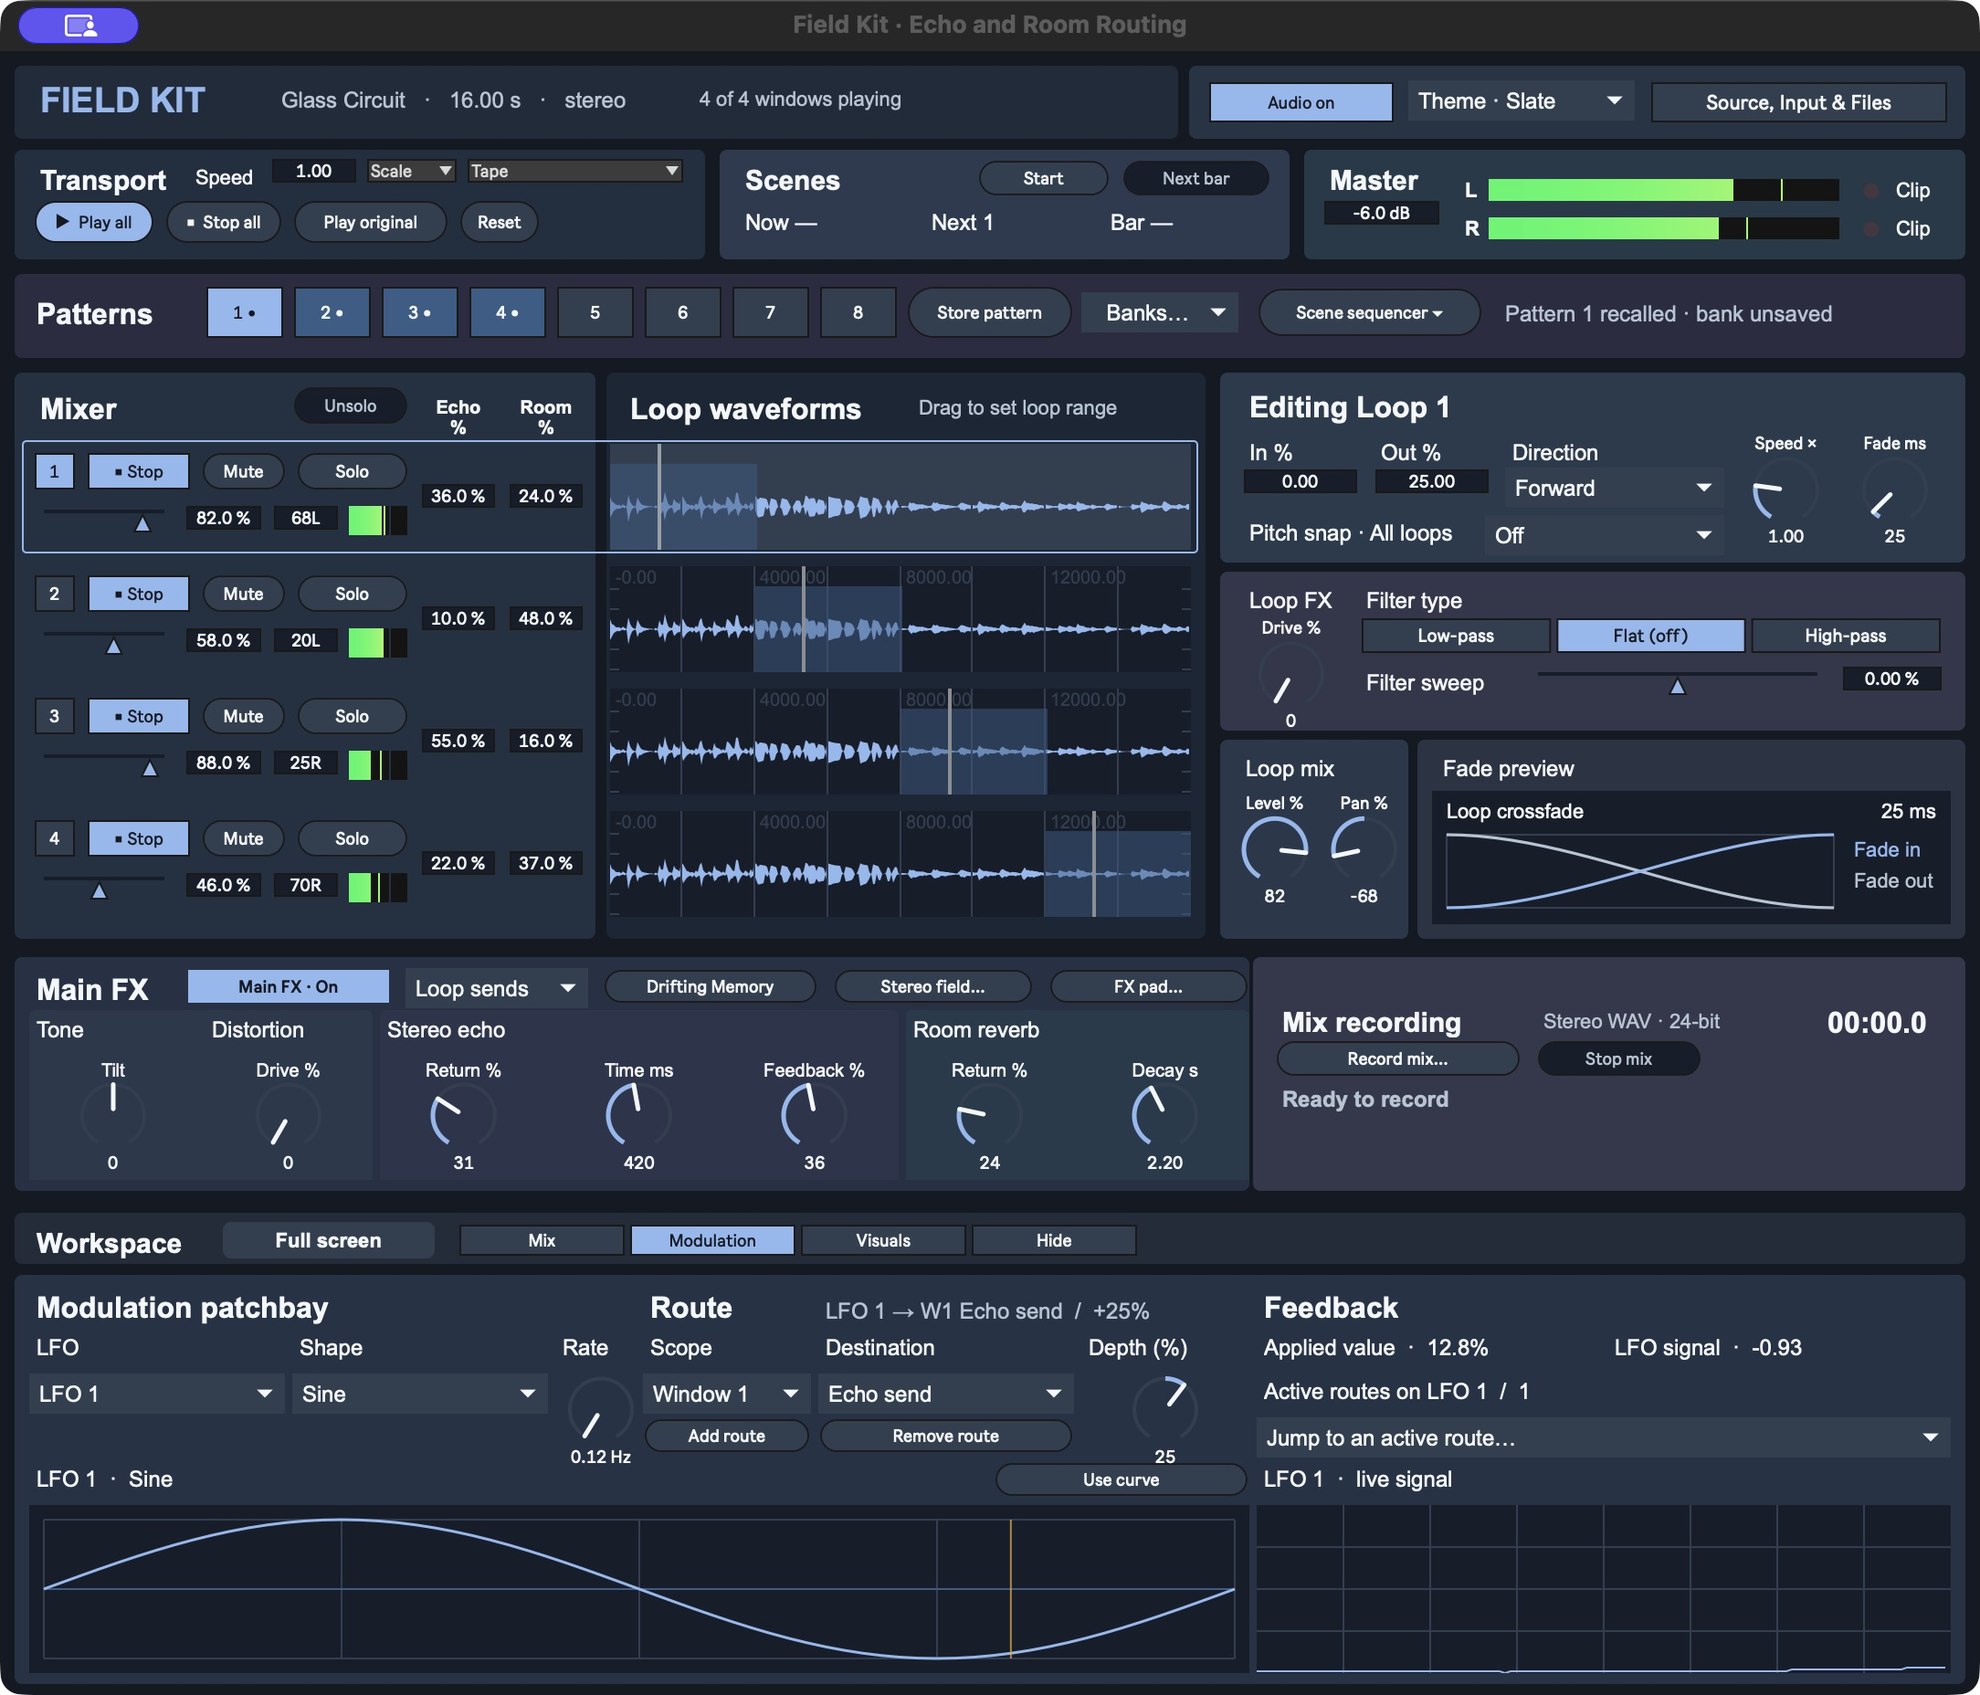
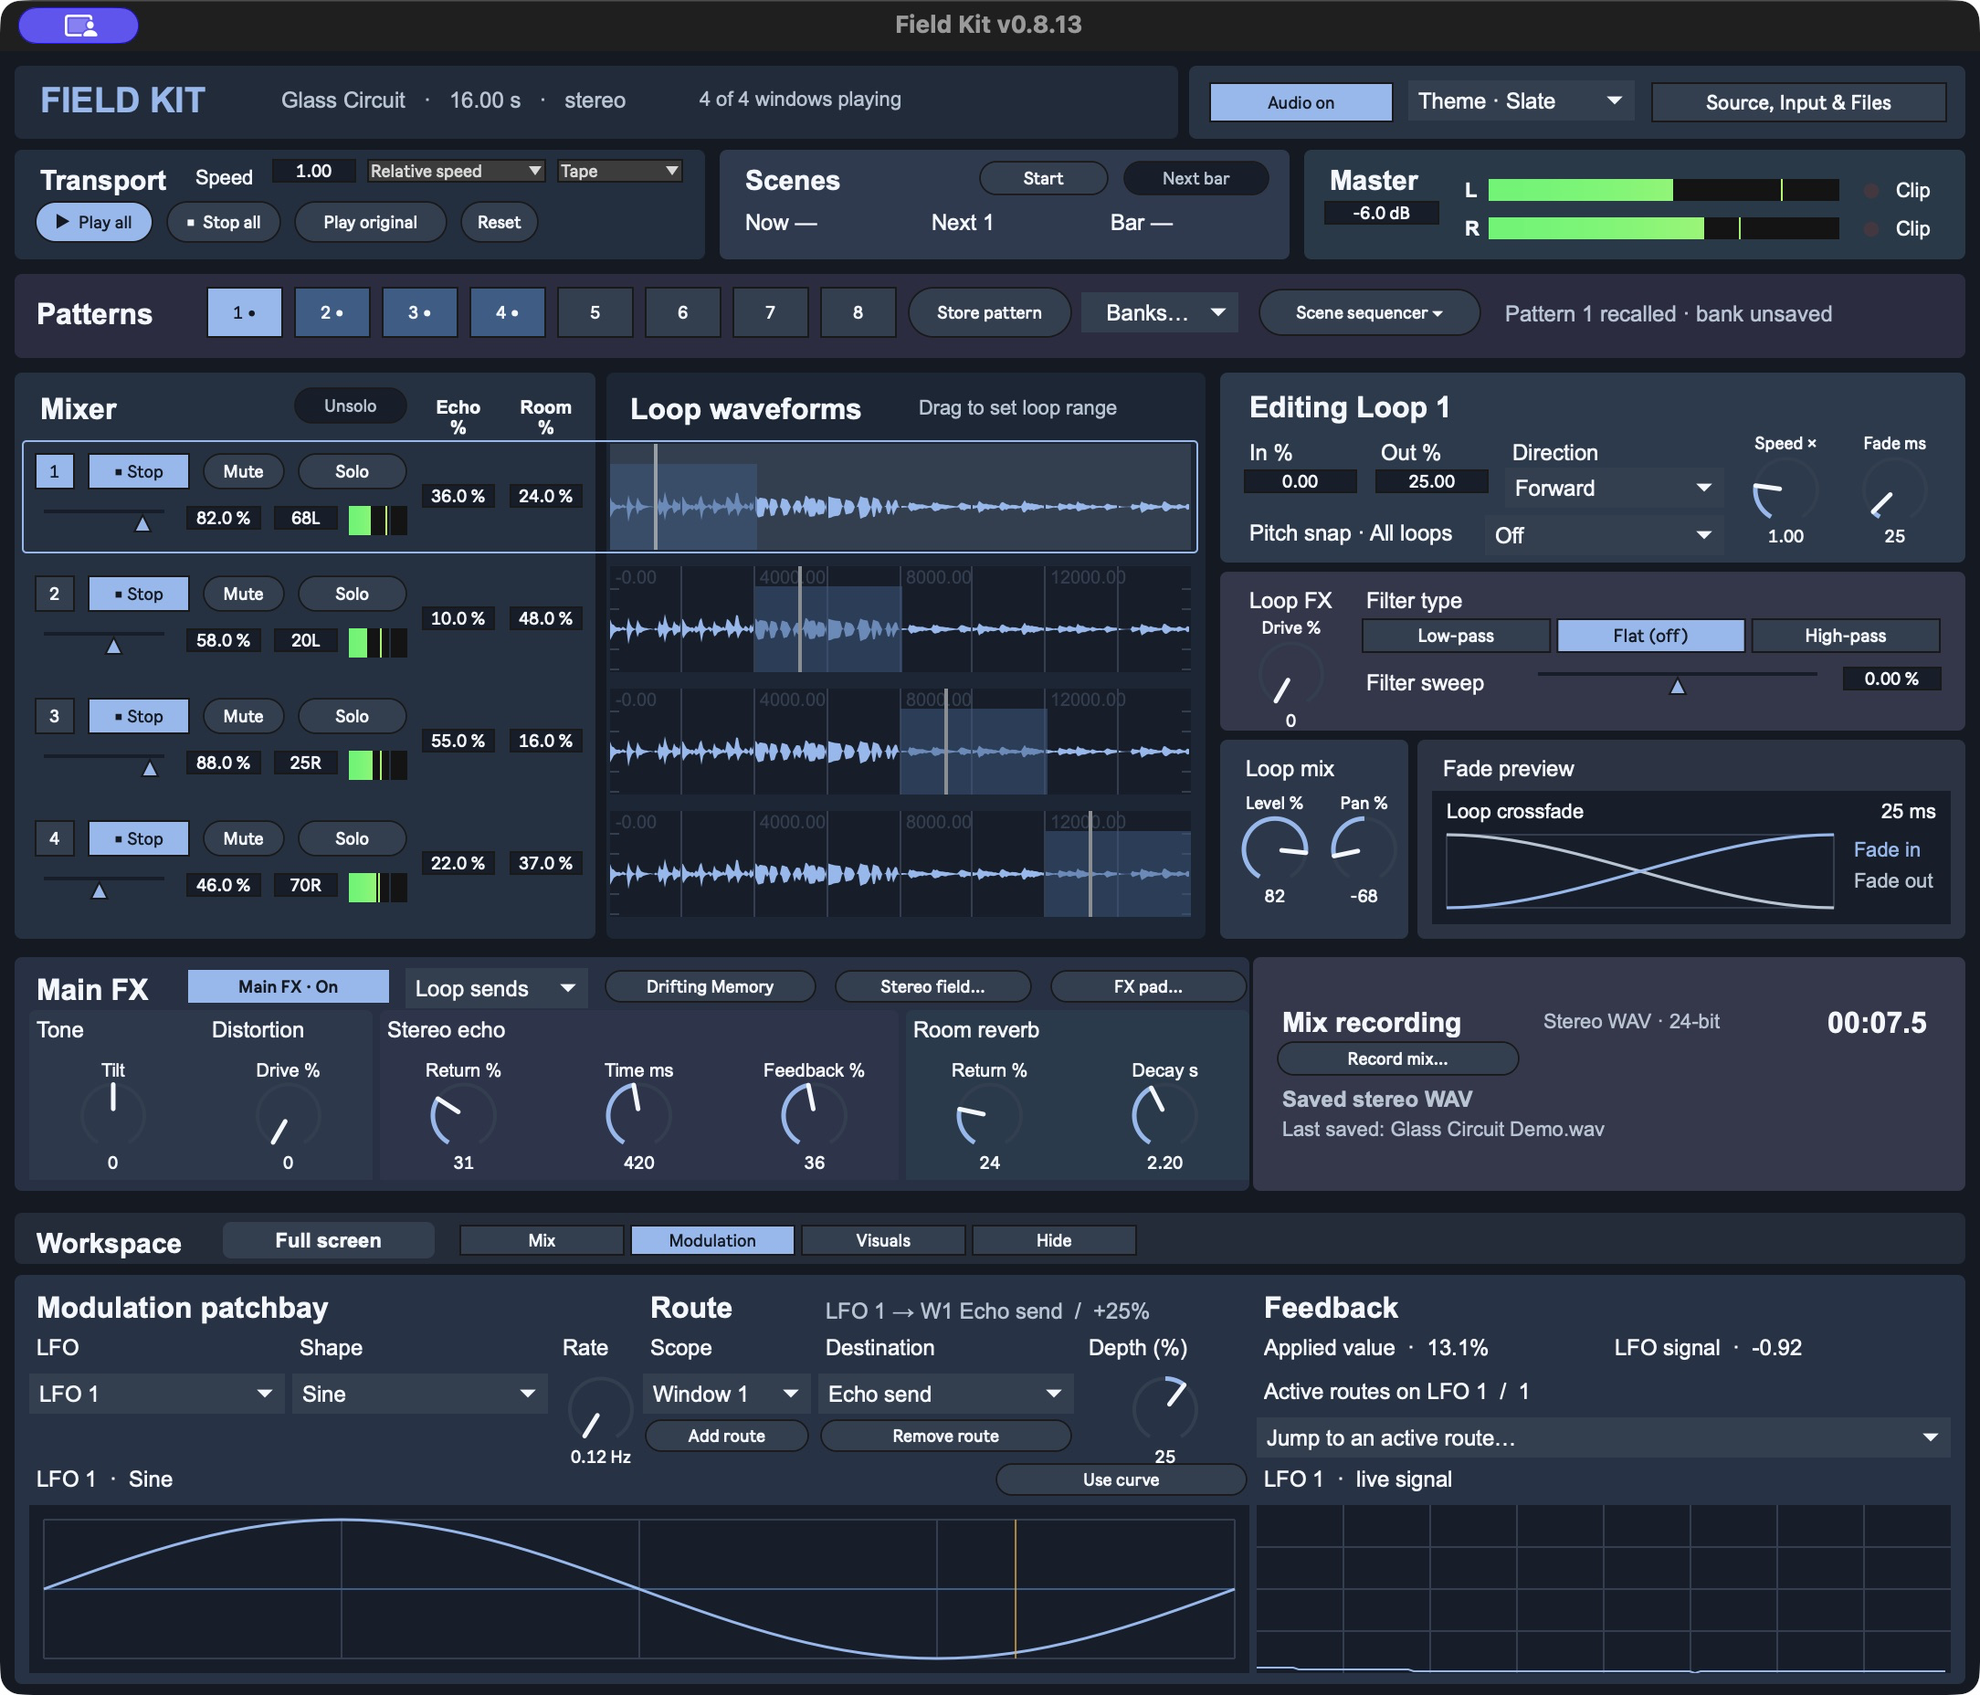
Release Field Kit v0.8.13 with one-button recording and clearer speed labels

diff --git a/max/fk_recorder.js b/max/fk_recorder.js
@@ -41,8 +41,13 @@ renderTime.local = 1;
 
 function render() {
     var recording = state === "recording";
-    send("record_button", "active", dspOn && state === "idle" ? 1 : 0);
-    send("stop_button", "active", state === "starting" || recording ? 1 : 0);
+    var canStop = state === "starting" || recording;
+    var caption = canStop ? "Stop recording" : "Record mix…";
+    send("record_button", "text", caption);
+    send("record_button", "texton", caption);
+    send("record_button", "hint", canStop ? "Finish and save the mix recording." :
+        "Choose where to save a WAV of the final mix.");
+    send("record_button", "active", canStop || (dspOn && state === "idle") ? 1 : 0);
     if (recording && normalStatusColor === null) {
         normalStatusColor = host.patcher.getnamed("record_status").getattr("textcolor");
         send("record_status", "bgcolor", 0.64, 0.10, 0.16, 1);
@@ -170,9 +175,11 @@ function checkProgress() {
 }
 checkProgress.local = 1;
 
-function stop_record() {
+function toggle_record() {
     if (state === "starting" || state === "recording") {
         stopTake("");
+    } else {
+        choose();
     }
 }
 

diff --git a/max/fk_theme.js b/max/fk_theme.js
@@ -43,7 +43,6 @@ var wideLayoutRects = {
         record_time: [219, 0, 85, 20],
         record_format: [0, 24, 304, 17],
         record_button: [0, 46, 149, 22],
-        stop_button: [157, 46, 147, 22],
         record_status: [0, 71, 304, 18],
         record_file: [0, 91, 304, 17]
     },

diff --git a/scripts/build_recorder.py b/scripts/build_recorder.py
@@ -32,14 +32,6 @@ def build(output_dir=ROOT):
     def connect(source, target, outlet=0, inlet=0):
         lines.append({"patchline": {"source": [source, outlet], "destination": [target, inlet]}})
 
-    def action(name, label_text, x, width, selector, router, hint):
-        button = box(name, "live.text", [x, 21, width, 21], outputs=("", ""),
-                     visible=True, mode=0, active=0, parameter_enable=0,
-                     text=label_text, texton=label_text, hint=hint)
-        message = box(name + "_message", "message", [x, 150, 90, 22], 2, ("",), text=selector)
-        connect(button, message)
-        connect(message, router)
-
     label("capture_title", "Mix recording", [10, 0, 131, 20], fontsize=15, fontface=1)
     label("record_format", "Stereo WAV · 24-bit", [153, 2, 131, 17], fontsize=11)
     label("record_time", "00:00.0", [287, 0, 84, 20], fontsize=16, fontface=1, textjustification=2)
@@ -47,8 +39,12 @@ def build(output_dir=ROOT):
     label("record_file", "", [10, 61, 361, 16], fontsize=11)
 
     router = obj("rec_controller", "js fk_recorder.js", 240, 216, 120, outputs=())
-    action("record_button", "Record mix…", 10, 135, "choose", router, "Choose where to save a WAV of the final mix.")
-    action("stop_button", "Stop mix", 153, 91, "stop_record", router, "Finish and save the mix recording.")
+    button = box("record_button", "live.text", [10, 21, 135, 21], outputs=("bang", ""),
+                 visible=True, mode=0, active=0, parameter_enable=0,
+                 text="Record mix…", texton="Record mix…", hint="Choose where to save a WAV of the final mix.")
+    toggle = box("record_button_message", "message", [10, 150, 90, 22], 2, ("",), text="toggle_record")
+    connect(button, toggle)
+    connect(toggle, router)
 
     dialog = obj("save_dialog", "savedialog WAVE", 400, 150, 110, outputs=("", "", "bang"))
     chosen = obj("chosen_path", "prepend start_path", 400, 182, 110, 2)

diff --git a/scripts/package_max_download.py b/scripts/package_max_download.py
@@ -26,11 +26,11 @@ START_HERE = """FIELD KIT for Max
 3. Click Play all to hear the original demo. In Source, Input & Files, open Demos… for Glass Circuit (120 BPM) or Tidal Lanterns (75 BPM), or choose Load audio… for your own sample.
 4. Choose Slate, Moss, or Ember from Theme in the header.
 
-In Transport, Speed changes all four loops from half to double speed. Scale
-keeps their relative speeds. Match plays every loop at the displayed speed.
-Choose Tape to change pitch with speed, or Pitch Lock to keep pitch steady
-while changing global speed. Scale holds each loop’s pitch at 1× global speed.
-Match holds the source pitch. Save Set keeps the speed and modes.
+In Transport, Speed changes all four loops from half to double speed.
+Relative speed multiplies each loop’s own speed. Same speed plays every loop
+at the displayed speed. Choose Tape to change pitch with speed, or Pitch Lock
+to keep pitch steady. Relative speed holds each loop’s pitch at 1× global speed.
+Same speed holds the source pitch. Save Set keeps the speed and modes.
 Open Visuals and set the Tuner source to Live input L, Live input R, or Selected loop.
 Enable audio and play one note at a time. The display shows the nearest note,
 frequency and cents relative to A4 = 440 Hz.
@@ -95,7 +95,8 @@ keeps playing either way. The Main FX shortcut opens the same drawer.
 Hold freezes the current memory. Cut Tail clears it and sets capture to Off while
 the dry mix keeps playing. Release Hold and arm a bank to capture again.
 Mix recording includes Drifting Memory. Click Record mix… beside Main FX to save
-the final stereo output to a WAV, and Stop mix when you finish.
+the final stereo output to a WAV. Click the same button when it reads Stop
+recording to finish and save the take.
 The L and R master meters show each output channel. A red CLIP light identifies
 the channel that hit the output ceiling. Lower Master if either light comes on.
 

diff --git a/scripts/build_performance_top.py b/scripts/build_performance_top.py
@@ -22,11 +22,11 @@ def layout_performance_top(p, parameter):
     p.add("global_speed", "live.numbox", speed, view=speed, outs=2, types=["float", "float"],
           hint="Change the speed of all four loops together. Double-click to type a value.",
           **parameter("Global speed multiplier", 1, 0.5, 2, unit_style=9, units="%.2f"))
-    mode = [200, 58, 51, 20]
+    mode = [200, 58, 100, 20]
     p.add("speed_mode", "live.menu", mode, view=mode, outs=3, types=["int", "", "float"],
-          hint="Scale preserves each loop's speed ratio. Match plays every loop at the same speed.",
-          **parameter("Global speed mode", 0, 0, 1, options=["Scale", "Match"]))
-    pitch_mode = [255, 58, 120, 20]
+          hint="Relative speed multiplies each loop’s own speed. Same speed plays all four at the displayed Speed.",
+          **parameter("Global speed mode", 0, 0, 1, options=["Relative speed", "Same speed"]))
+    pitch_mode = [304, 58, 71, 20]
     p.add("pitch_lock", "live.menu", pitch_mode, view=pitch_mode, outs=3, types=["int", "", "float"],
           hint="Tape changes pitch with Speed. Pitch Lock keeps pitch steady as you change Speed.",
           **parameter("Global pitch mode", 0, 0, 1, options=["Tape", "Pitch Lock"]))

diff --git a/README.md b/README.md
@@ -7,11 +7,11 @@ FIELD KIT is a Max instrument that turns an audio file or a live recording into 
 - **[Download the latest Max patch](https://github.com/modelcollapse/field-kit/releases/latest/download/field-kit-max.zip).** Unzip it and double-click **Open FIELD KIT.maxpat** in Max 9. **START HERE.txt** has the quick instructions. Keep **Support** and the companion Max patches beside the launcher.
 - **[Download the latest standalone macOS app](https://github.com/modelcollapse/field-kit/releases/latest/download/field-kit-macos.zip).** Unzip it and open **Field Kit.app**. Max is not required.
 
-The v0.8.12 standalone includes Apple silicon and Intel binaries. It is ad hoc signed and has no Apple notarization. macOS may show a first launch alert. [Apple’s explanation of first launch alerts](https://support.apple.com/en-us/102445).
+The v0.8.13 standalone includes Apple silicon and Intel binaries. It is ad hoc signed and has no Apple notarization. macOS may show a first launch alert. [Apple’s explanation of first launch alerts](https://support.apple.com/en-us/102445).
 
-[See what's new in v0.8.12](CHANGELOG.md).
+[See what's new in v0.8.13](CHANGELOG.md).
 
-![Field Kit standalone playing four loops with the docked loop editor, expanded Fade preview, and independent Echo and Room sends](docs/screenshots/field-kit-standalone.jpg)
+![Field Kit v0.8.13 playing four loops with Relative speed selected and the Record mix button ready](docs/screenshots/field-kit-standalone.jpg)
 
 The original demo loads on startup. Click **Play all** to hear it. Open **Source, Input & Files → Demos…** to play **Glass Circuit** (120 BPM), **Tidal Lanterns** (75 BPM), or the original demo. Each new demo uses four equal loop regions and sets the scene tempo to match. Choose **Load audio…** to play your own sample. The same drawer holds audio setup, source recording, and Set files.
 
@@ -37,9 +37,9 @@ In the selected loop editor, choose **Low-pass** to cut highs, **High-pass** to 
 
 **Pitch snap** applies to all four windows. Choose a scale to snap the pitch reached by changing **Speed ×**, including speed modulation. The original sample at **1×** is the tonic. Speed and pitch stay linked, as on a tape deck.
 
-Use **Speed** in Transport to slow down or speed up all four loops from **0.50×** to **2.00×**. **Scale** multiplies their individual speeds after pitch snap, preserving their ratios. **Match** temporarily plays all four at the displayed speed. Switching back to Scale restores each loop’s individual speed setting.
+Use **Speed** in Transport to slow down or speed up all four loops from **0.50×** to **2.00×**. **Relative speed** multiplies each loop’s speed after pitch snap. If two loops are set to 1× and 2×, setting global Speed to 0.50× plays them at 0.50× and 1×. **Same speed** would play both at 0.50×. Switching back to Relative speed uses each loop’s individual speed setting again.
 
-**Tape** changes pitch with speed. Choose **Pitch Lock** to keep pitch steady while you turn the global Speed control. In Scale, this preserves each loop’s pitch at 1× global speed, including any local speed or Pitch Snap settings. In Match, it preserves the source pitch. **Save Set** stores the global speed and both modes. Pattern changes leave them in place.
+**Tape** changes pitch with speed. Choose **Pitch Lock** to keep pitch steady while you turn the global Speed control. In Relative speed, this preserves each loop’s pitch at 1× global speed, including any local speed or Pitch Snap settings. In Same speed, it preserves the source pitch. **Save Set** stores the global speed and both modes. Pattern changes leave them in place.
 
 Open **Visuals** and set the **Tuner** source to **Live input L**, **Live input R**, or **Selected loop**. With audio enabled, play one note at a time. The tuner shows the nearest note, frequency, and cents relative to **A4 = 440 Hz**.
 
@@ -49,7 +49,7 @@ Open **Visuals** and set the **Tuner** source to **Live input L**, **Live input 
 
 Each waveform has a mixer strip with playback, level, pan, mute, solo, a peak meter, and **Echo** and **Room** sends. Click or drag the blue fader under a window’s playback button to set its volume, or edit the percentage box for a precise level. **Mute** removes a window from the mix while its loop keeps running. **Solo** lets you hear one or more windows together. Mute still takes precedence, and **Unsolo** brings back the current mute mix. Mixer performance controls leave the edit selection in place. **Record mix** captures the resulting master mix.
 
-The **L** and **R** meters in the **Master** strip show each output channel. A red **Clip** light shows which channel hit the output ceiling. Lower **Master** if either light comes on. The **Mix recording** panel below has the record and stop controls, timer, status, and take name.
+The **L** and **R** meters in the **Master** strip show each output channel. A red **Clip** light shows which channel hit the output ceiling. Lower **Master** if either light comes on. The **Mix recording** panel below has the recording button, timer, status, and take name.
 
 Open **Stereo field…** beside **FX pad…** in the **Main FX** header. Drag a window edge to resize the Stereo Field. The tabs select which loop's pan and level are shown above the pad. Drag its dot left or right to pan it, and up or down to change its level. If dots overlap, use the tabs to pick one.
 
@@ -117,7 +117,9 @@ Use **Hold** to freeze what’s in memory. **Cut Tail** clears the captured audi
 
 ![Drifting Memory with live Memory and Wet return meters, Hold and Cut Tail, and the Advanced Time page](docs/screenshots/field-kit-drifting-memory.png)
 
-With audio enabled, click **Record mix…** and choose where to save the take. The red **RECORDING** indicator and timer show when capture is active. The recorder writes the final mix as a 24-bit stereo WAV at the audio device's current sample rate. **Stop all** lets the effects decay. Click **Stop mix** when the take is finished.
+With audio enabled, click **Record mix…** and choose where to save the take. The red **RECORDING** indicator and timer show when capture is active. The recorder writes the final mix as a 24-bit stereo WAV at the audio device's current sample rate. **Stop all** lets the effects decay. Click the same button, now labeled **Stop recording**, to finish and save the take.
+
+![Field Kit recording a stereo WAV with Stop recording visible and Same speed selected at 0.75×](docs/screenshots/field-kit-recording.jpg)
 
 ## Build and test
 

diff --git a/CHANGELOG.md b/CHANGELOG.md
@@ -1,5 +1,10 @@
 # Field Kit changelog
 
+## v0.8.13
+
+- Record mix changes to Stop recording during a take.
+- Global speed modes are now labeled Relative speed and Same speed.
+
 ## v0.8.12
 
 - Echo and Room sends live in the four mixer strips. Main FX holds the routing mode and the Mix or Return levels. The FX routing panel now shows status, and the loop editor gives the Fade preview more room.
